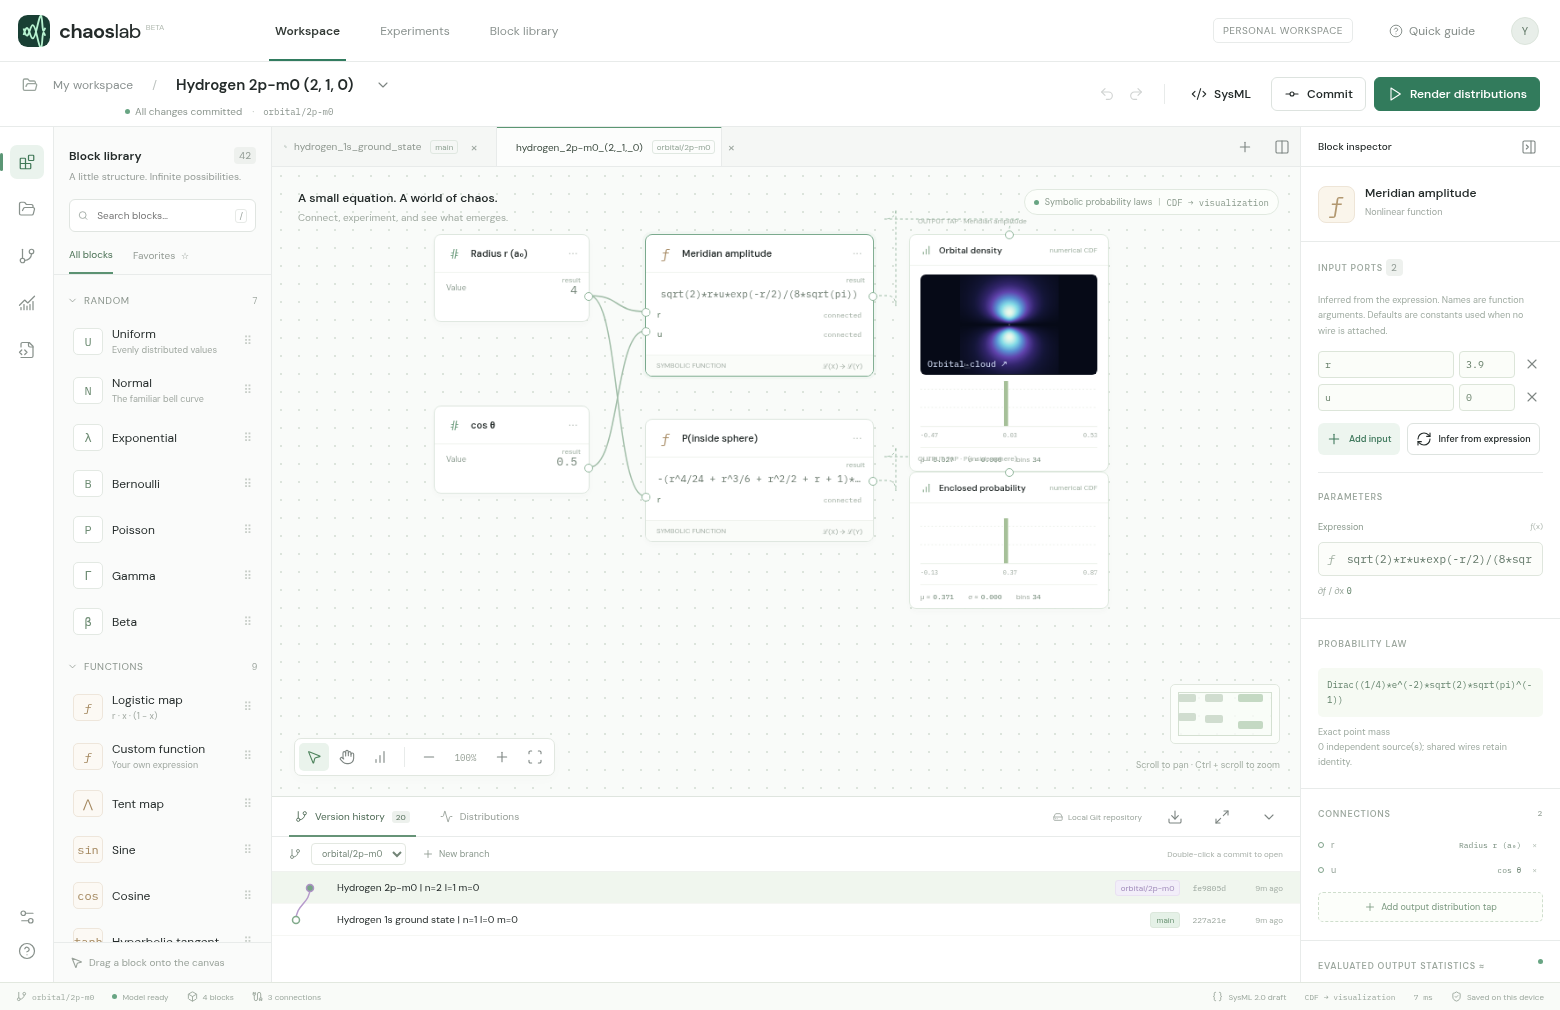
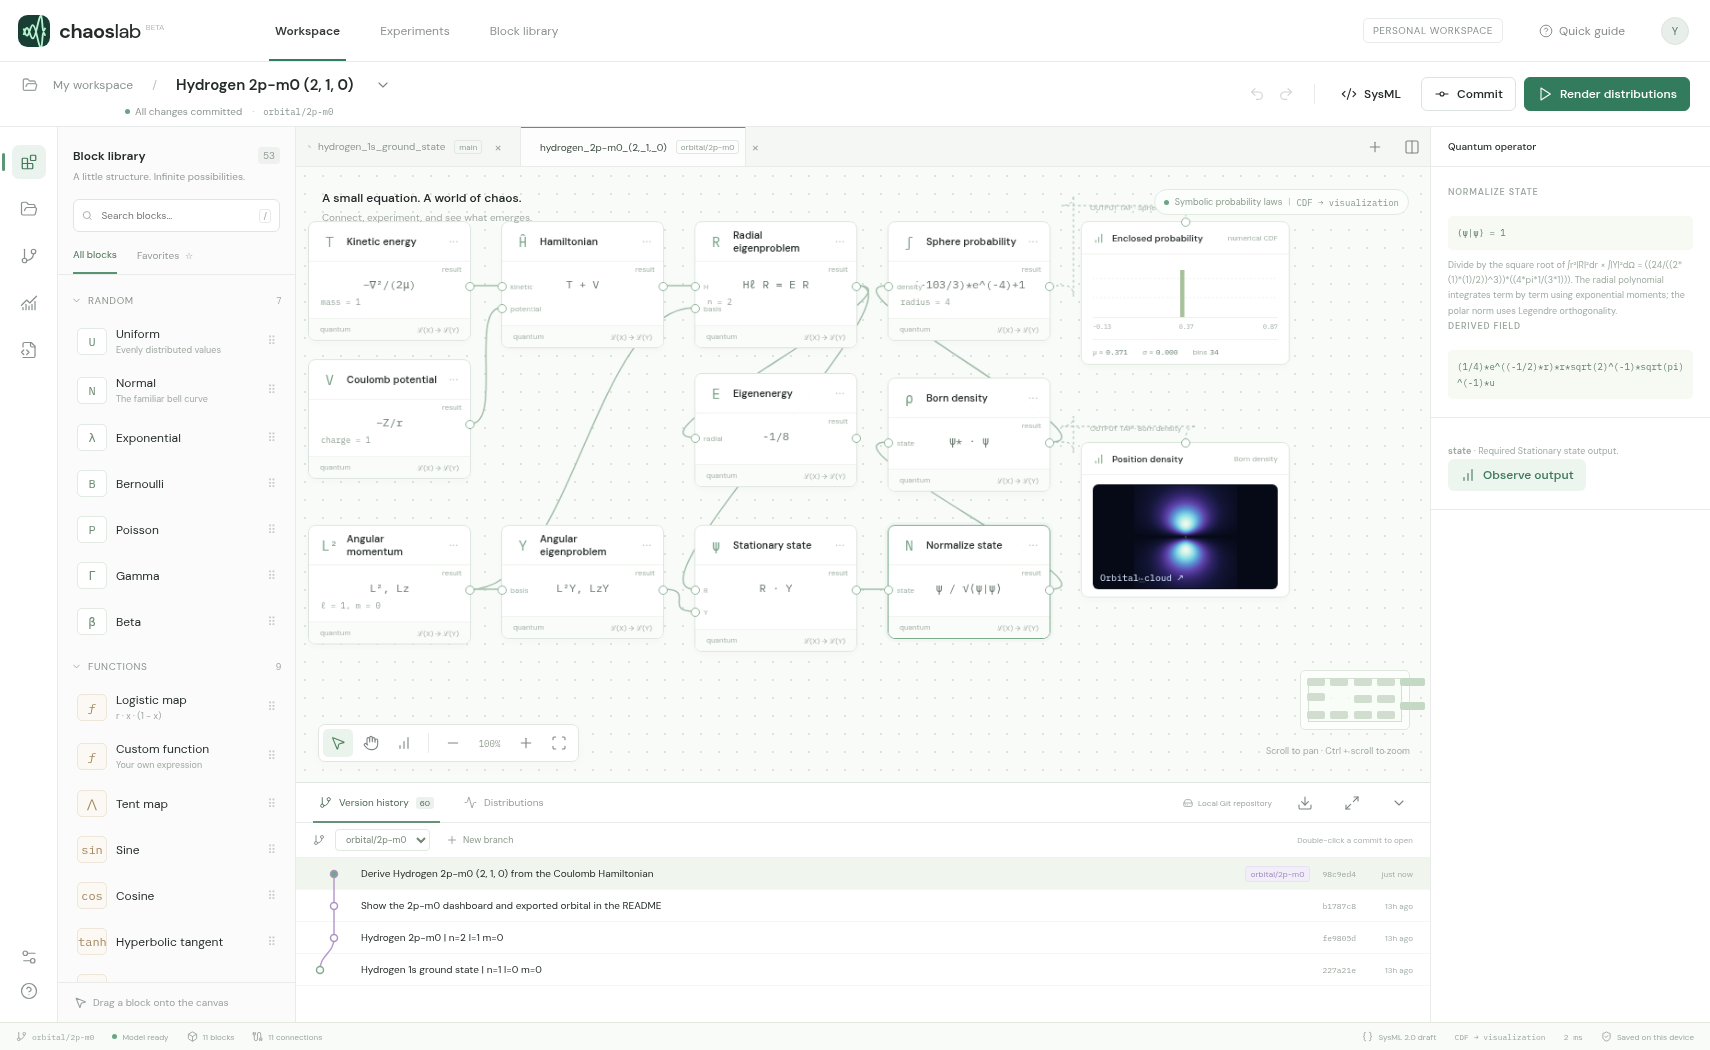
Show the derived state and operator graph for orbital/2p-m0

diff --git a/README.md b/README.md
@@ -4,6 +4,8 @@ Open **Version history** in Chaos Lab to explore the 20 hydrogen designs in this
 
 ## Hydrogen 2p (n = 2, ℓ = 1, m = 0)
 
+The connected Hamiltonian and eigenstate solvers give $E=-1/8$ Hartree for this state.
+
 ![Chaos Lab dashboard with the 2p model, m = 0, open in version history](dashboard.png)
 
 Radial nodes: 0. Polar nodes: 1. Plot half-width: 8 Bohr radii.
@@ -22,7 +24,7 @@ cd hydrogen_wavefunction
 python studio.py
 ```
 
-On Windows you can use `py studio.py`. On Linux you can use `python3 studio.py`. The first launch downloads the pinned Chaos Lab browser build. Double-click a commit to open it in a tab. Open another and use **Split view** to compare them. **Orbital cloud ↗** opens the spatial plots. The launcher reads the Git objects from your clone, including origin branches. Run `git fetch origin` and restart the launcher to load new remote branches.
+On Windows you can use `py studio.py`. On Linux you can use `python3 studio.py`. The first launch downloads the pinned Chaos Lab browser build. Double-click a commit to open it in a tab. Open another and use **Split view** to compare them. **Orbital cloud ↗** opens the spatial plots. The launcher reads the Git objects from your clone, including origin branches. For an existing clone, update the checked-out branch with `git pull --ff-only`, fetch the other branches with `git fetch origin`, and restart the launcher. Double-click the latest commit for the design you want to explore.
 
 To compare states with the same radial law, open `orbital/2p-m0` and `orbital/2p-m1`. At the same radius their enclosed-probability probes agree. The first slice is dark on the equatorial plane, while the second is dark along the polar axis.
 
@@ -32,7 +34,17 @@ To compare states with the same radial law, open `orbital/2p-m0` and `orbital/2p
 
 Branch names encode `(n, ℓ, m)`. For example, `orbital/3d-m1` is `(3,2,1)`. Each snapshot includes the editable graph, its compiled symbolic representation, and its SysML text. Each excited-state branch also contains a reference cross-section.
 
-Coordinates are in Bohr radii. These are normalized fixed-proton, nonrelativistic spatial eigenstates in the complex spherical-harmonic basis. For a fixed m the azimuthal phase is exp(i m φ), so probability density is axially symmetric. The graph evaluates the real meridian amplitude at φ = 0 using radius r and u = cos θ. Its square is probability per unit volume. The sphere probe integrates the radial Born law. The field tap sweeps the same amplitude expression for the x–z slice and its projected detections. Detections are drawn for display from a numerical grid of the final density including the r² volume factor. Brightness and plotting windows are scaled per orbital.
+## How the graph derives this orbital
+
+1. **Kinetic energy** and **Coulomb potential** supply the relative-coordinate operators in atomic units. Their wires feed **Hamiltonian**, which constructs $H=-\nabla^2/(2\mu)-Z/r$. The default is a fixed proton, $Z=\mu=1$.
+2. **Angular momentum** selects the joint eigenvalues of $L^2$ and $L_z$. **Radial eigenproblem** uses that angular eigenvalue in the centrifugal term. Regularity at the origin, decay at infinity, and radial-series termination give the polynomial and energy. **Angular eigenproblem** constructs the polar polynomial by Rodrigues differentiation and includes the phase $e^{im\phi}$.
+3. **Stationary state** multiplies the separated basis functions. **Normalize state** computes their norm with the spherical volume measure. **Born density** takes the squared modulus of the normalized state. **Sphere probability** integrates that density to the probe radius.
+4. Select a block to inspect its equation and derivation. Change **Nuclear charge** from 1 to 2. The energy becomes four times more negative and the orbital contracts by a factor of two. The plot rescales with the orbital, so use its Bohr-radius scale bar to see the change.
+
+The central slice evaluates the final density in the x–z plane. Projected detections sample the final density on a finite radial and angular grid with the spherical volume factor. Coordinates use Bohr radii and energy uses Hartree.
+
+The branch stores the operator graph in `model.json`, its derived fields and scalar laws in `model.symbolic.json`, and the block connections in `model.sysml`. With SymPy installed, run `python tools/verify_state.py` in a checkout of this branch to check the eigenvalue equations, normalization, radial reference solution and sphere integral.
+
 
 | n | ℓ | m | Design branch |
 |---|---|---|---|
